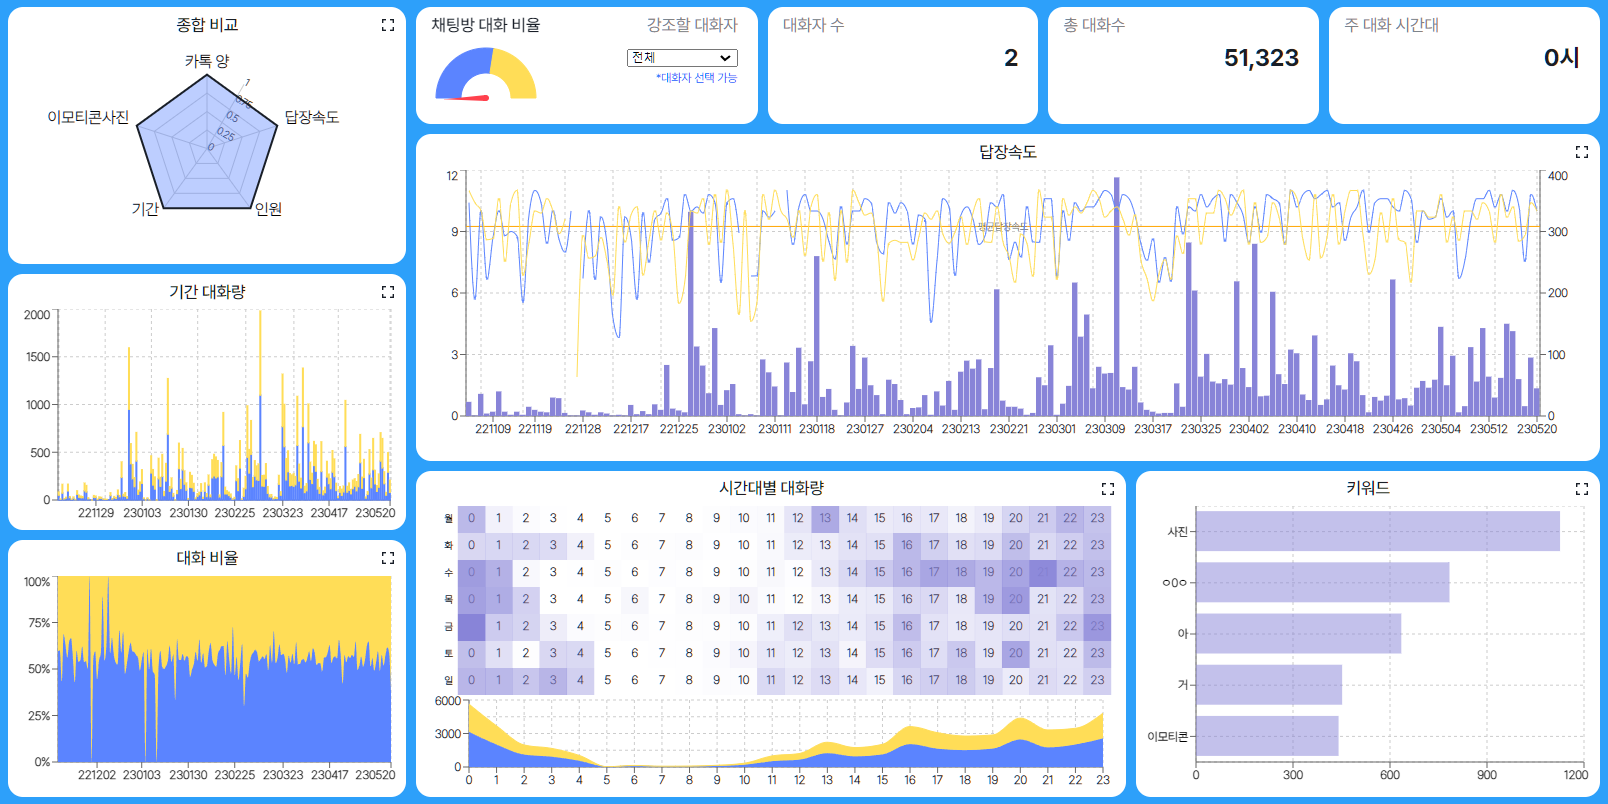
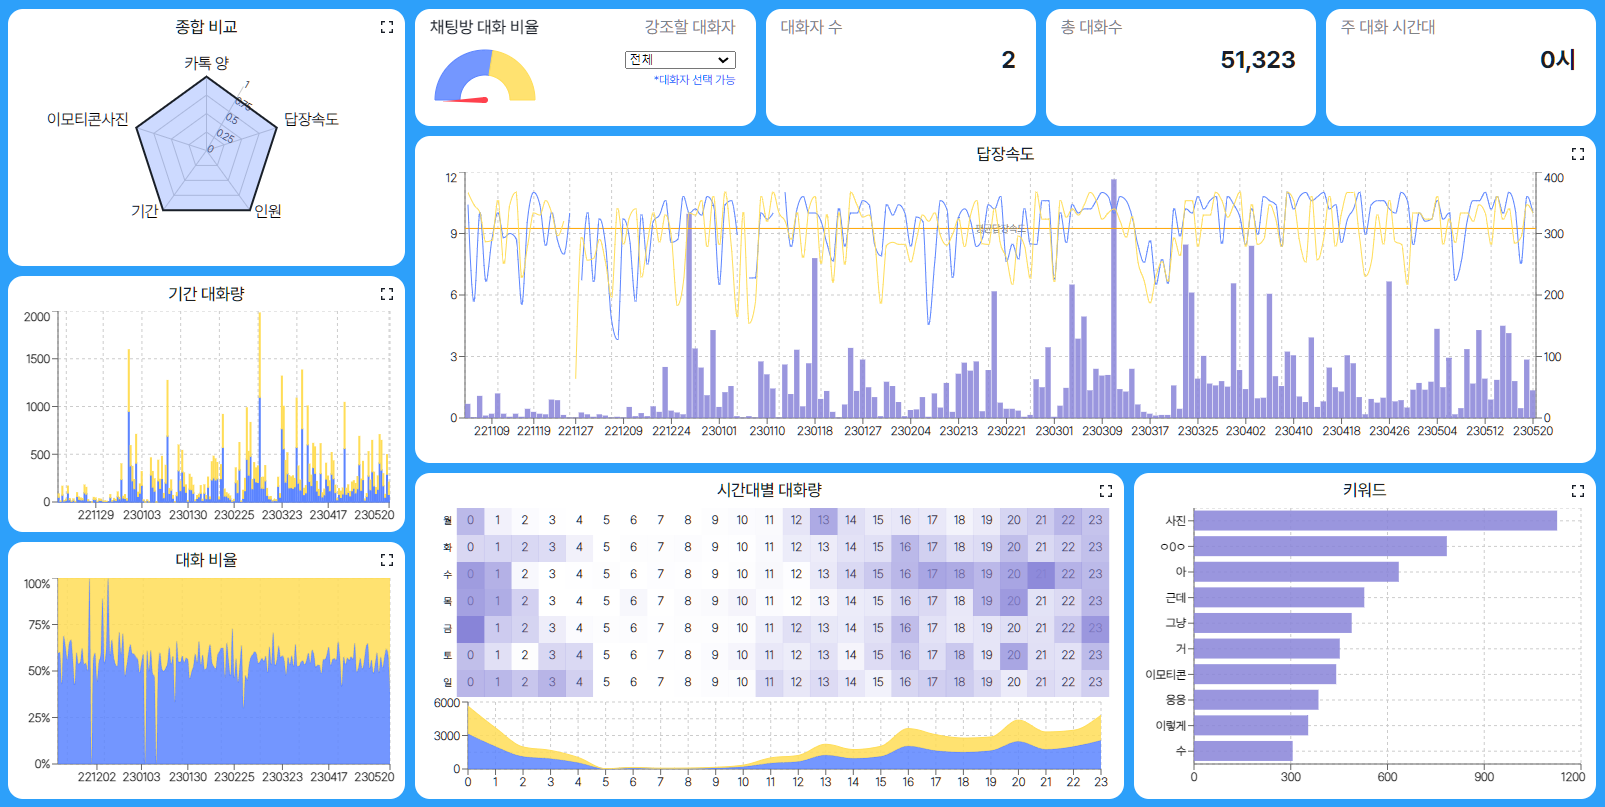
feat: main visual 이미지 다크모드

diff --git a/src/components/organisms/MainVisual.tsx b/src/components/organisms/MainVisual.tsx
@@ -6,6 +6,7 @@ import { useNavigate } from "react-router-dom";
 import ScrollIndicator from "../molecules/ScrollIndicator";
 import BlueButton from "../atoms/BlueButton";
 import { FlexCenterDiv } from "../styleComponents/FlexDiv";
+import { useSelector } from "react-redux";
 
 const MainVisualContainer = styled(FlexCenterDiv)`
   width: 100%;
@@ -88,6 +89,8 @@ interface MainVisualProps {
 const MainVisual = ({ onMoveToFunctionCard }: MainVisualProps) => {
   const navigate = useNavigate();
 
+  const isDarkMode = useSelector((state: { isDarkModeSlice: boolean }) => state.isDarkModeSlice);
+
   return (
     <MainVisualContainer>
       <AsideBox>
@@ -109,7 +112,13 @@ const MainVisual = ({ onMoveToFunctionCard }: MainVisualProps) => {
       </AsideBox>
       <ArticleBox>
         <MainVisualImgBox>
-          <Img src={`${process.env.PUBLIC_URL}/images/main/dashboard.png`} />
+          <Img
+            src={
+              isDarkMode
+                ? `${process.env.PUBLIC_URL}/images/main/dashboardDark.png`
+                : `${process.env.PUBLIC_URL}/images/main/dashboard.png`
+            }
+          />
         </MainVisualImgBox>
       </ArticleBox>
     </MainVisualContainer>

diff --git a/src/components/sections/NavHead.tsx b/src/components/sections/NavHead.tsx
@@ -189,6 +189,7 @@ const TopContent = styled.div`
 `;
 
 const NoticeBox = styled(FlexCenterDiv)`
+  display: none;
   position: absolute;
   top: 110%;
   left: 50%;
